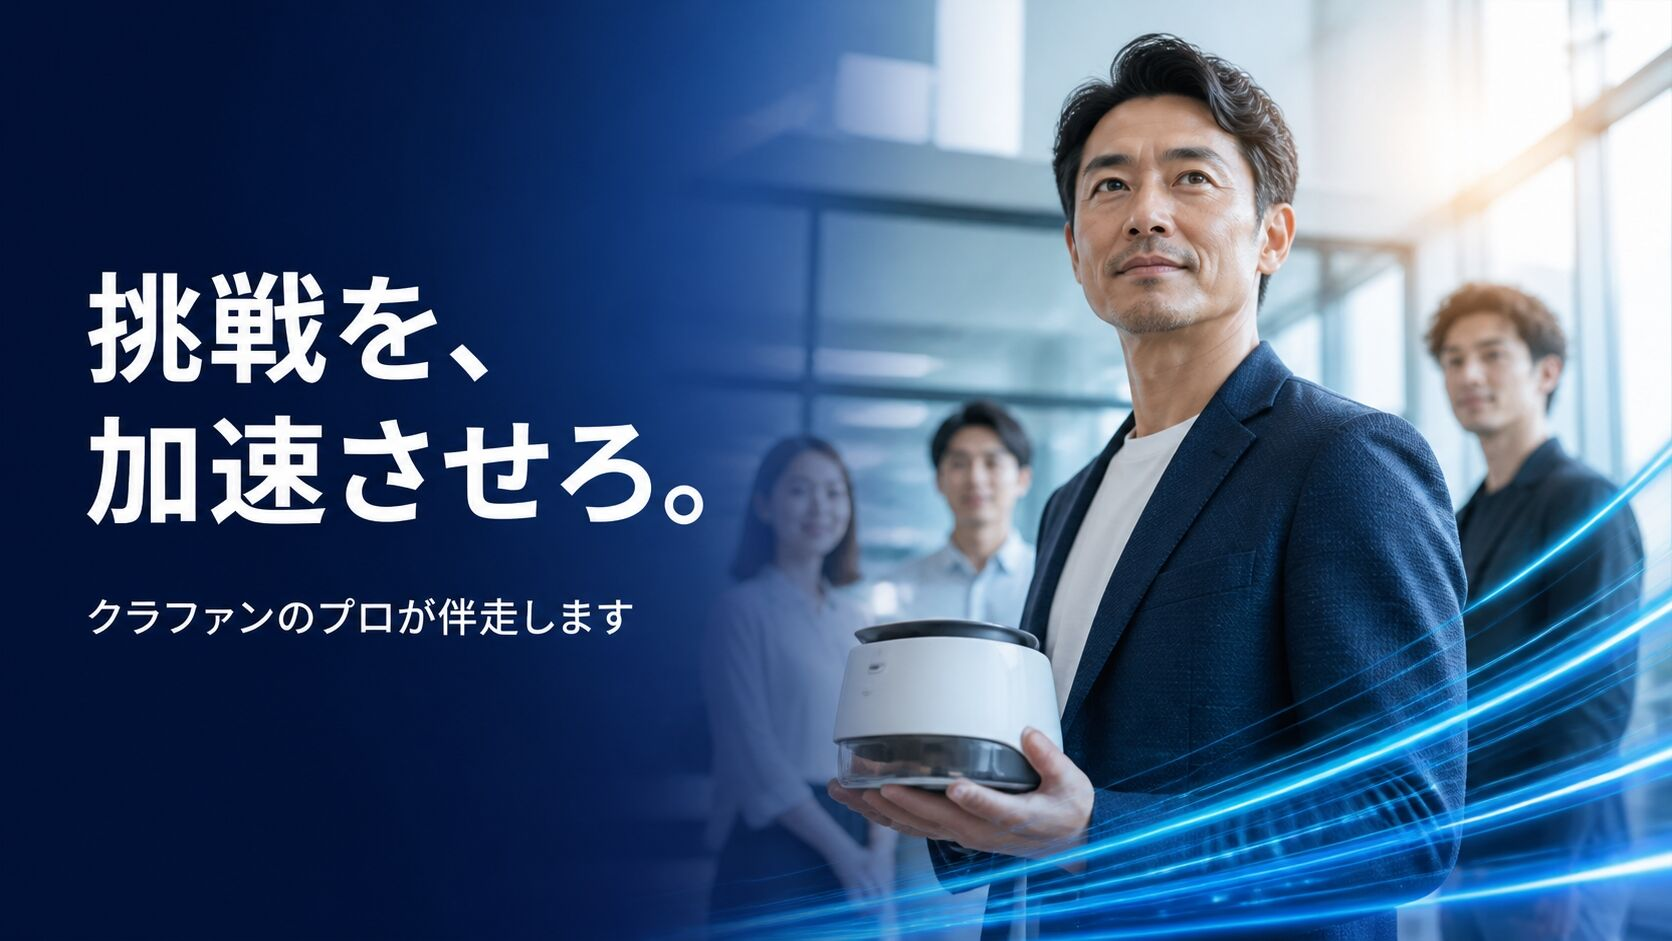
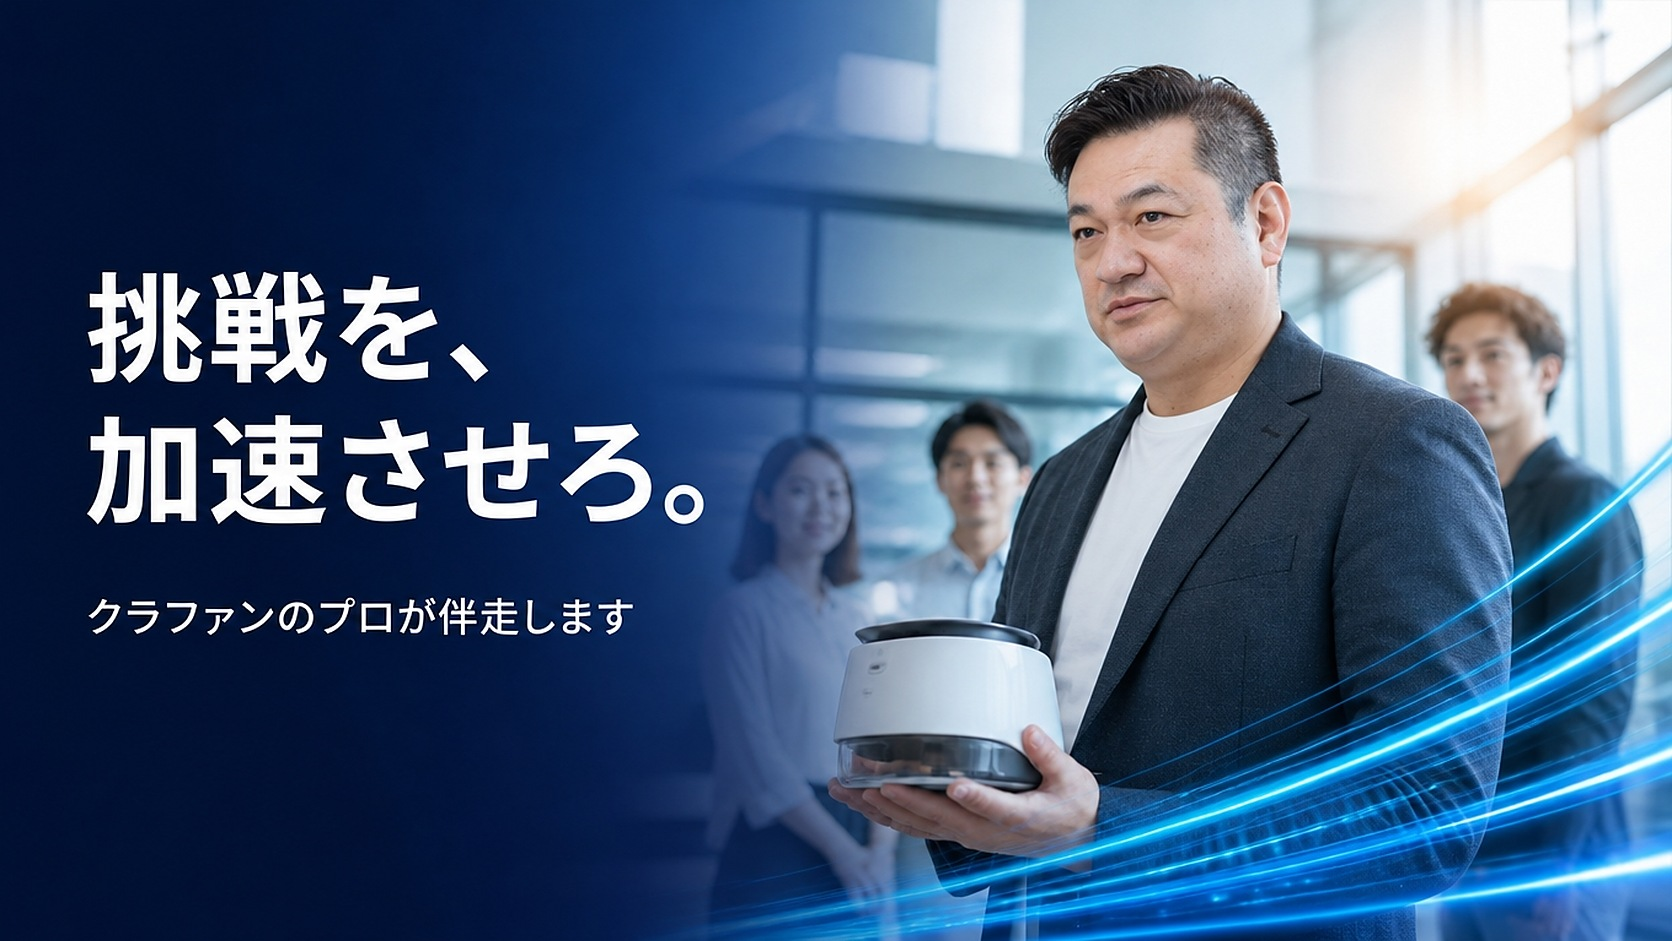
feat(top): KVの手前の人物だけを差し替え（背景・レイアウトはそのまま）＋重ね文字を拡大（t iku指示 2026-11-03）

diff --git a/src/styles/top-lp.css b/src/styles/top-lp.css
@@ -693,3 +693,69 @@
     display: inline;
   }
 }
+
+/* ==========================================================================
+   2026-11-03 t iku指示「写真は元のまま、文字だけ大きく」
+   — KV（文字焼き込み）は触らず、HTMLで重ねている文字だけを拡大する。
+     画像内の副題（y≈600-650/941）と重ならないよう、コピー帯は下寄せのまま
+     余白と行間で高さを調整している。
+   ========================================================================== */
+.tlp-hero-copy {
+  padding: 0 40px 26px;
+  max-width: 50%;
+}
+.tlp-hero-lead {
+  font-size: 21px;
+  font-weight: 700;
+  line-height: 1.55;
+  letter-spacing: 0.01em;
+  margin-bottom: 16px;
+  text-shadow: 0 2px 14px rgba(0, 8, 24, 0.75);
+}
+.tlp-hero-note {
+  font-size: 15px;
+  font-weight: 700;
+  letter-spacing: 0.03em;
+  margin-top: 8px;
+  color: rgba(255, 255, 255, 0.92);
+}
+.tlp-hero-copy .tlp-btn {
+  min-height: 56px;
+  padding: 16px 30px;
+  font-size: 18px;
+}
+
+/* タブレット */
+@media (max-width: 1023px) {
+  .tlp-hero-copy { max-width: 58%; padding: 0 26px 20px; }
+  .tlp-hero-lead { font-size: 18px; line-height: 1.6; }
+  .tlp-hero-note { font-size: 14px; }
+  .tlp-hero-copy .tlp-btn { min-height: 52px; font-size: 17px; padding: 14px 26px; }
+}
+
+/* スマホ（画像の下に文字が並ぶ。画像内の文字と重ならない） */
+@media (max-width: 767px) {
+  .tlp-hero-copy { max-width: none; padding: 22px 18px 6px; }
+  .tlp-hero-lead { font-size: 19px; line-height: 1.75; font-weight: 800; color: var(--text); text-shadow: none; margin-bottom: 18px; }
+  .tlp-hero-note { font-size: 14.5px; color: var(--text-sub); text-shadow: none; }
+  .tlp-hero-copy .tlp-btn { width: 100%; min-height: 56px; font-size: 17px; }
+}
+
+/* 文字を大きくすると画像内の副題と重なるため、コピー帯を横並びにして高さを抑える */
+@media (min-width: 768px) {
+  .tlp-hero-copy {
+    display: flex; flex-wrap: wrap; align-items: center;
+    column-gap: 18px; row-gap: 12px;
+    max-width: 56%;
+    padding: 0 40px 20px;
+  }
+  .tlp-hero-lead { flex: 1 0 100%; margin-bottom: 0; font-size: 21px; line-height: 1.5; }
+  .tlp-hero-copy .tlp-btn { flex: 0 0 auto; min-height: 54px; font-size: 18px; padding: 15px 28px; }
+  .tlp-hero-note { flex: 1 1 auto; margin-top: 0; font-size: 15px; }
+}
+@media (min-width: 768px) and (max-width: 1023px) {
+  .tlp-hero-copy { max-width: 62%; column-gap: 14px; padding: 0 24px 16px; }
+  .tlp-hero-lead { font-size: 18px; }
+  .tlp-hero-copy .tlp-btn { min-height: 50px; font-size: 16.5px; padding: 13px 22px; }
+  .tlp-hero-note { font-size: 13.5px; }
+}
